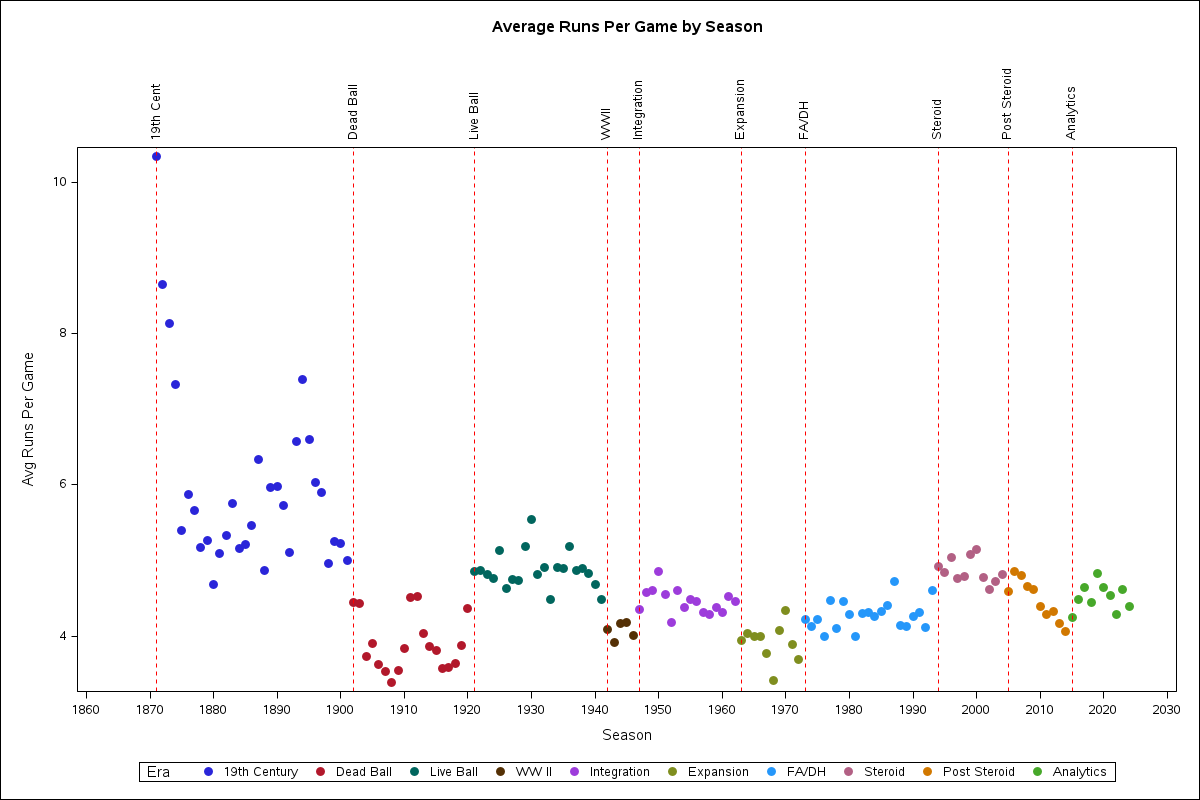
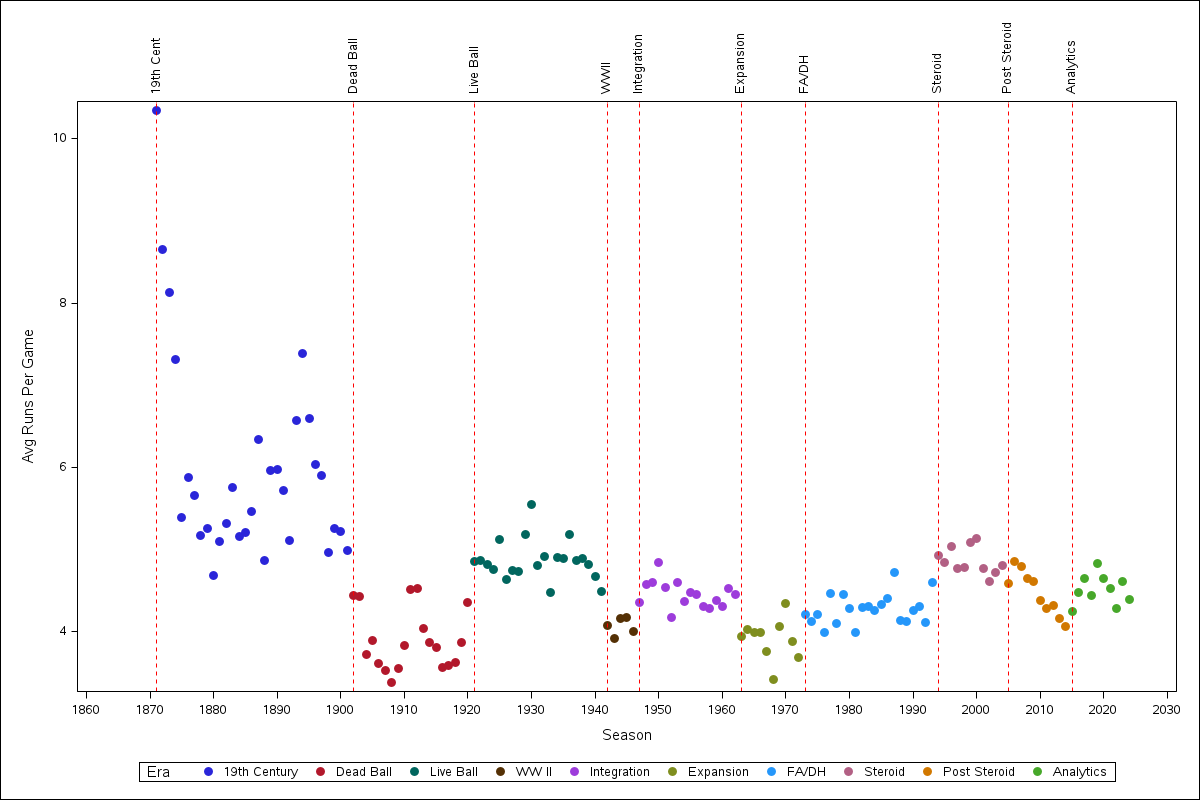
0109 1348

diff --git a/baseball/Blog3_Eras/index.md b/baseball/Blog3_Eras/index.md
@@ -170,7 +170,9 @@ proc sgplot data=avgRPG;
    xaxis label="Season" values=(1860 to 2030 by 10);
    yaxis label="Avg Runs Per Game";
 run;
-```
+```  
+
+### Average Runs Per Game (RPG) by Season  
 
 ![AvgRPG](https://samedgemon.github.io/SportsAnalytics/baseball/Blog3_Eras/Images/rpg.png)
 
